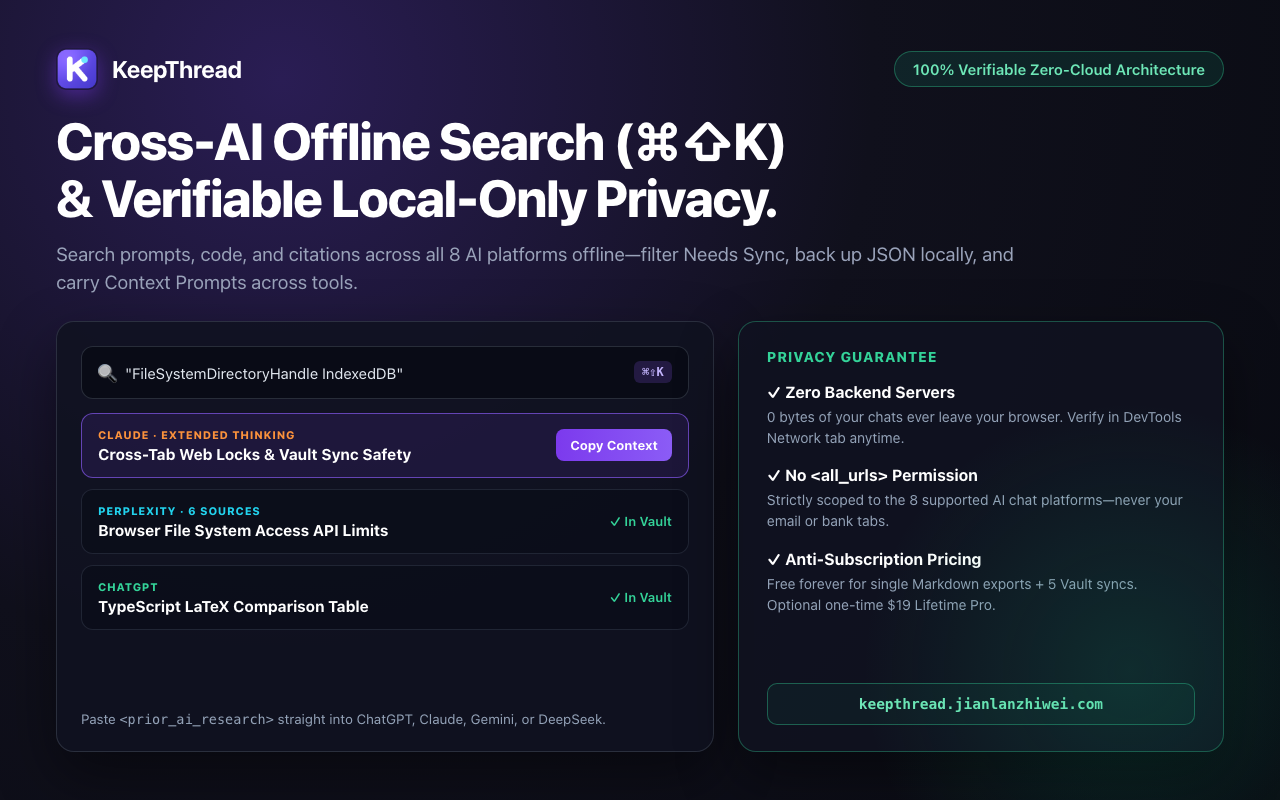
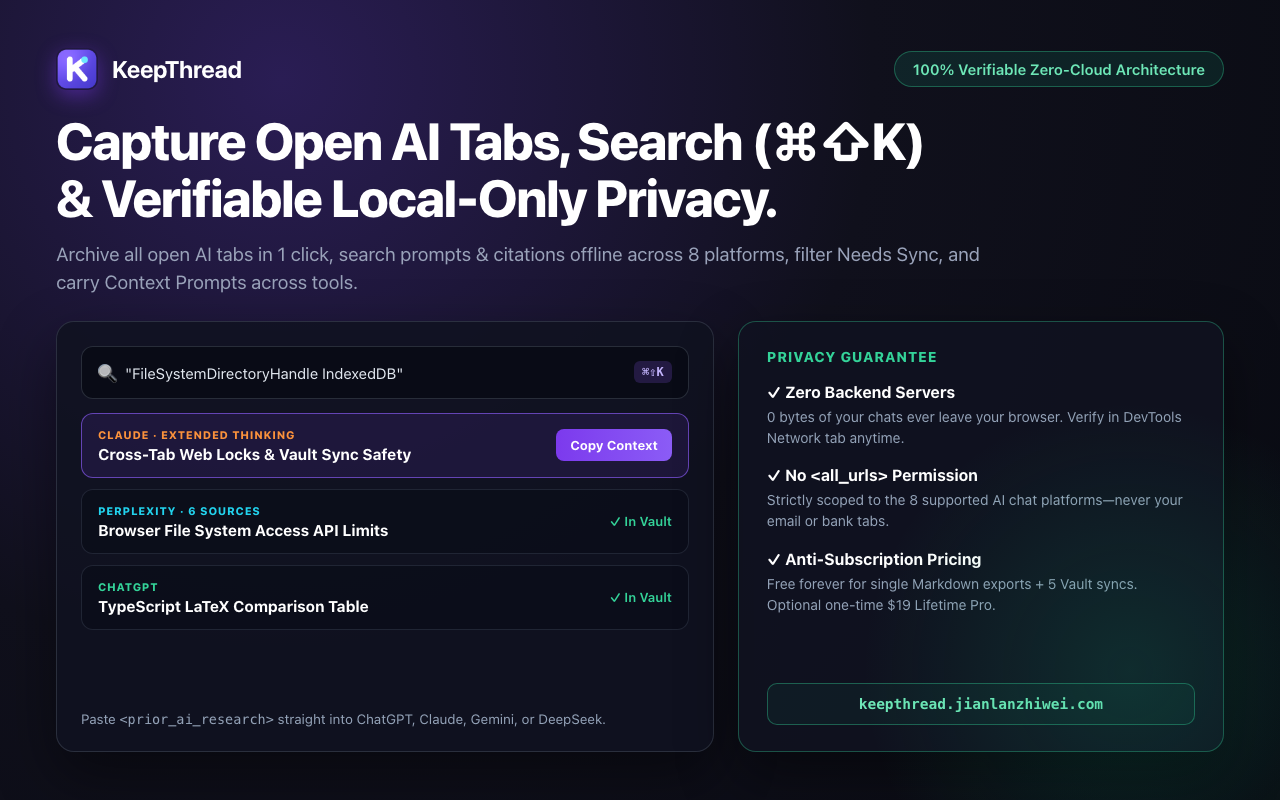
chore(site): sync KeepThread v1.4.4 release notes, guides, screenshots & llms.txt

Changed region(s): [[0.0625, 0.1562, 0.7188, 0.2188], [0.0312, 0.3125, 0.7812, 0.3438]]

diff --git a/index.html b/index.html
@@ -40,16 +40,16 @@
         "@type": "SoftwareApplication",
         "name": "KeepThread",
         "url": "https://keepthread.jianlanzhiwei.com/",
-        "softwareVersion": "1.4.3",
+        "softwareVersion": "1.4.4",
         "applicationCategory": "ProductivityApplication",
         "operatingSystem": "Chrome, Microsoft Edge, Firefox",
         "description": "100% local Chrome, Edge & Firefox extension to export and losslessly sync ChatGPT, Claude, Gemini & AI Studio, Perplexity, DeepSeek, Grok, Kimi & GLM chats straight into Obsidian & Markdown.",
         "featureList": [
-          "8-in-1 local sync for ChatGPT, Claude (including standalone /artifact/* pages & open Artifact side-panel source), Google Gemini (Deep Research & AI Studio), Perplexity, DeepSeek, Grok, Kimi, and GLM with zero cloud servers",
+          "8-in-1 local sync for ChatGPT, Claude (including standalone /artifact/* pages & open Artifact side-panel source), Google Gemini (Deep Research & AI Studio), Perplexity (including Reasoning callouts), DeepSeek, Grok, Kimi, and GLM with zero cloud servers",
           "Lossless in-place Obsidian Vault sync preserving handwritten notes, custom YAML frontmatter, tags, and [[backlinks]]—zero Local REST API plugin required",
-          "Inline title rename & synced tag editing, cherry-pick turns with 1-click Only single-turn mode, per-export Thinking On/Off toggle, and Needs Sync archive filtering",
-          "Anti-truncation Auto-Scroll full capture (up to 1,000 steps) with shifted-window and SPA-switch protection, pure Tailwind code-header cleanup, Mermaid & LaTeX fidelity, turn-scoped citations and attachment preservation",
-          "Free single-thread image-bundled .zip export (ideal for Firefox or unlinked workflows), multi-select batch sync to Obsidian Vault, full Obsidian ZIP export, portable local JSON backup/restore, and Obsidian Bases (.base) dashboard",
+          "Inline title rename, per-note default #tag deselection & synced tag editing, cherry-pick turns with 1-click Only single-turn mode, per-export Thinking On/Off toggle, and Needs Sync archive filtering",
+          "1-click Capture Open AI Tabs across all 8 platforms (zero extra permissions), anti-truncation Auto-Scroll full capture (up to 1,000 steps) with pre-export confirmation, pure Tailwind code-header cleanup, multi-line <br>/<div> code & standalone MathML/KaTeX fidelity, turn-scoped citations and attachment preservation",
+          "Free single-thread image-bundled .zip export (ideal for Firefox or unlinked workflows), multi-select batch sync with live progress & 1-click Retry Failed, full Obsidian ZIP export, portable local JSON backup/restore, and Obsidian Bases (.base) dashboard",
           "100% offline cross-AI search (Cmd+Shift+K / Ctrl+Shift+K) and 1-click Copy Context Prompt"
         ],
         "sameAs": [
@@ -168,7 +168,7 @@
         </nav>
       </header>
 
-      <span class="pill">100% Local · 8-in-1 AI Sync (v1.4.3) · Zero Cloud Server · No Subscription</span>
+      <span class="pill">100% Local · 8-in-1 AI Sync (v1.4.4) · Zero Cloud Server · No Subscription</span>
       <h1>Sync ChatGPT, Claude, Gemini, Perplexity, DeepSeek, Grok, Kimi &amp; GLM straight into Obsidian.</h1>
       <p class="sub">
         Stop losing research across AI tabs or fighting broken copy-paste. KeepThread writes clean
@@ -209,28 +209,28 @@
           </p>
         </div>
         <div class="card">
-          <h3>Cherry-Pick Only, Inline Rename &amp; Offline Image ZIP</h3>
+          <h3>Cherry-Pick Only, Per-Note #Tag Toggle &amp; Image ZIP</h3>
           <p>
-            Rename notes &amp; edit tags right before syncing, pick exact turns (or click
-            <strong>Only</strong> for one golden reply), toggle <strong>Thinking On/Off</strong> per
-            export, and bundle images locally into <code>assets/keepthread/</code> via Vault sync or
-            free single-thread <code>.zip</code>.
+            Rename notes &amp; click to exclude default <code>#tags</code> per note, pick exact turns
+            (or 1-click <strong>Only</strong>), toggle <strong>Thinking On/Off</strong>, and bundle
+            images locally into <code>assets/keepthread/</code> via Vault sync or free single-thread
+            <code>.zip</code>.
           </p>
         </div>
         <div class="card">
-          <h3>Obsidian Bases, Needs Sync Filter &amp; Cross-AI Memory</h3>
+          <h3>Capture Open Tabs, Bases &amp; Cross-AI Memory</h3>
           <p>
-            Auto-generates an Obsidian <code>AI-Chats.base</code> database view, filter unsynced or
-            updated threads via <strong>Needs Sync</strong>, search all 8 platforms offline via
+            Archive all open AI tabs in 1 click, auto-generate an Obsidian <code>AI-Chats.base</code>
+            database view, filter <strong>Needs Sync</strong>, search offline via
             <code>Cmd+Shift+K</code>, and click <strong>Copy Context Prompt</strong> to switch AIs.
           </p>
         </div>
         <div class="card">
           <h3>Obsidian-Grade Formatting</h3>
           <p>
-            Preserves KaTeX/MathJax LaTeX &amp; Mermaid source while protecting code blocks, keeps
-            Claude Artifact titles, turns Perplexity/Gemini/Grok/Kimi/DeepSeek sources into
-            turn-scoped footnotes, and wraps reasoning in collapsible callouts.
+            Preserves KaTeX/MathJax/MathML LaTeX &amp; multi-line code blocks while keeping fences
+            immune, extracts Claude Artifacts, turns Perplexity/Gemini/Grok/Kimi/DeepSeek sources
+            into turn-scoped footnotes, and folds reasoning into collapsible callouts.
           </p>
         </div>
         <div class="card">
@@ -304,7 +304,7 @@
             <ul>
               <li>Unlimited Obsidian Vault direct in-place syncs</li>
               <li>Unlimited local offline cross-platform search (<code>Cmd+Shift+K</code>)</li>
-              <li>One-click Bulk Sync to Vault &amp; Bulk ZIP export</li>
+              <li>One-click Bulk Sync (live progress &amp; Retry Failed) &amp; Bulk ZIP export</li>
               <li>Custom folder path, filename &amp; YAML frontmatter templates</li>
             </ul>
             <a class="btn btn-primary" style="margin-top:12px;" href="https://checkout.dodopayments.com/buy/pdt_0NsGLZDIIOYalSl7mmb95?quantity=1">

diff --git a/changelog.html b/changelog.html
@@ -160,8 +160,50 @@
       <article class="release latest">
         <div class="rel-head">
           <div class="rel-ver">
-            v1.4.3
+            v1.4.4
             <span class="tag tag-purple">Latest Release</span>
+          </div>
+          <span class="rel-date">2026-11-27</span>
+        </div>
+        <ul>
+          <li>
+            <strong>1-Click "Capture Open AI Tabs" (Zero Extra Permissions)</strong>: Scan and archive
+            every open ChatGPT, Claude, Gemini, AI Studio, Perplexity, DeepSeek, Grok, Kimi, and GLM
+            tab in a single click right from the Archive sidebar—using KeepThread's existing narrow
+            host permissions, fast-skipping sleeping Memory-Saver tabs, protecting richer saved
+            archives, and atomically respecting local archive quotas.
+          </li>
+          <li>
+            <strong>Bulk Sync Live Progress, Custom Title Parity &amp; 1-Click Retry Failed</strong>:
+            Added live <code>Syncing X/Y</code> progress feedback, custom-title propagation across
+            both Bulk Vault Sync and Bulk ZIP export, and instant <code>Retry Failed (N)</code> /
+            <code>Select Failed</code> recovery when partial or cherry-picked notes are held for review.
+          </li>
+          <li>
+            <strong>Per-Note Default Tag Deselection &amp; Pre-Export Truncation Guard</strong>:
+            Click any inherited default tag chip (such as <code>#ai-chat</code> or
+            <code>#chatgpt</code>) in Popup or Vault to exclude it for that specific note across all
+            exits, lossless re-syncs, Bulk ZIP, and JSON backups. Added pre-export confirmation on
+            long virtualized threads so off-screen turns aren't missed before running
+            <code>Full Capture</code>.
+          </li>
+          <li>
+            <strong>Perplexity Reasoning Callouts, DeepSeek Header Cleanup &amp; Code/MathML Fidelity</strong>:
+            Extracts Perplexity Reasoning / Pro Search blocks into collapsible
+            <code>&gt; [!note]- Thinking Process</code> callouts with strict citation isolation when
+            <code>Thinking: Off</code>; strips DeepSeek <code>Thought for Xs</code> /
+            <code>已深度思考</code> headers inside thinking callouts; and preserves
+            <code>&lt;br&gt;</code> / per-line <code>&lt;div&gt;</code> code newlines plus standalone
+            <code>&lt;math&gt;</code> MathML formulas.
+          </li>
+        </ul>
+      </article>
+
+      <article class="release">
+        <div class="rel-head">
+          <div class="rel-ver">
+            v1.4.3
+            <span class="tag">Live on Chrome Web Store</span>
           </div>
           <span class="rel-date">2026-11-26</span>
         </div>
@@ -237,7 +279,6 @@
         <div class="rel-head">
           <div class="rel-ver">
             v1.4.1
-            <span class="tag">Live on Chrome Web Store</span>
           </div>
           <span class="rel-date">2026-11-25</span>
         </div>

diff --git a/compare.html b/compare.html
@@ -269,11 +269,11 @@
             </tr>
             <tr>
               <td>
-                <span class="feat-name">Cross-AI Offline Search, Needs Sync &amp; Context Prompt</span>
-                <span class="feat-sub"><code>Cmd+Shift+K</code> search, <code>Needs Sync</code> filter + 1-click Copy Context to another AI</span>
+                <span class="feat-name">Cross-AI Offline Search, Capture Open Tabs &amp; Batch Sync</span>
+                <span class="feat-sub"><code>Cmd+Shift+K</code> search, 1-click <code>Capture Open AI Tabs</code>, <code>Needs Sync</code>, live Bulk Sync progress + <code>Retry Failed</code> &amp; Context Prompt</span>
               </td>
-              <td class="kt-col"><span class="yes">✓ IndexedDB + Needs Sync + Context</span></td>
-              <td><span class="no">✕ No AI thread index</span></td>
+              <td class="kt-col"><span class="yes">✓ IndexedDB + Open-Tab Capture + Retry</span></td>
+              <td><span class="no">✕ No AI thread index or batch tab scan</span></td>
               <td><span class="partial">△ Often requires cloud account</span></td>
             </tr>
             <tr>
@@ -305,10 +305,10 @@
             </tr>
             <tr>
               <td>
-                <span class="feat-name">Inline Rename &amp; Synced Tag Management</span>
-                <span class="feat-sub">Rename notes &amp; edit tags right before syncing without refresh wipe; preserves Obsidian-only manual tags</span>
+                <span class="feat-name">Inline Rename &amp; Per-Note Default Tag Toggle</span>
+                <span class="feat-sub">Rename notes &amp; click to exclude inherited default tags (e.g. <code>#ai-chat</code>) per note without refresh wipe; preserves Obsidian-only manual tags</span>
               </td>
-              <td class="kt-col"><span class="yes">✓ Inline Rename + Echoed Tag Chips</span></td>
+              <td class="kt-col"><span class="yes">✓ Inline Rename + Clickable Tag Chips</span></td>
               <td><span class="partial">△ Refresh can wipe typed note title</span></td>
               <td><span class="no">✕ Static auto-titles only</span></td>
             </tr>

diff --git a/export-perplexity-to-obsidian.html b/export-perplexity-to-obsidian.html
@@ -29,8 +29,9 @@
             "@type": "SoftwareApplication",
             "name": "KeepThread",
             "url": "https://keepthread.jianlanzhiwei.com/",
+            "softwareVersion": "1.4.4",
             "applicationCategory": "ProductivityApplication",
-            "operatingSystem": "Chrome, Microsoft Edge",
+            "operatingSystem": "Chrome, Microsoft Edge, Firefox",
             "offers": [
               { "@type": "Offer", "price": "0", "priceCurrency": "USD", "name": "Free Forever" },
               { "@type": "Offer", "price": "19", "priceCurrency": "USD", "name": "Lifetime Pro (One-Time)" }
@@ -138,8 +139,8 @@
           <p>Inline <code>.citation</code> pills become clickable Obsidian footnotes (<code>[^1]</code>, <code>[^2]</code>) backed by a deduplicated <code>## Sources</code> list with clean URLs and page titles.</p>
         </div>
         <div class="card">
-          <h3>Works on 2026 /search/ &amp; /session/ Threads</h3>
-          <p>Supports multi-turn Perplexity follow-ups and Pro / Deep Research threads, with Auto-Scroll Full Capture that remaps footnotes seamlessly across long sessions.</p>
+          <h3>Works on 2026 /search/, /session/ &amp; Reasoning</h3>
+          <p>Supports multi-turn Perplexity follow-ups, Reasoning / Pro Search collapsible <code>&gt; [!note]- Thinking Process</code> callouts (with strict citation isolation when <code>Thinking: Off</code>), and Auto-Scroll Full Capture that remaps footnotes seamlessly across long sessions.</p>
         </div>
         <div class="card">
           <h3>Protect Your Literature Notes on Re-Sync</h3>

diff --git a/export-deepseek-to-obsidian.html b/export-deepseek-to-obsidian.html
@@ -29,8 +29,9 @@
             "@type": "SoftwareApplication",
             "name": "KeepThread",
             "url": "https://keepthread.jianlanzhiwei.com/",
+            "softwareVersion": "1.4.4",
             "applicationCategory": "ProductivityApplication",
-            "operatingSystem": "Chrome, Microsoft Edge",
+            "operatingSystem": "Chrome, Microsoft Edge, Firefox",
             "offers": [
               { "@type": "Offer", "price": "0", "priceCurrency": "USD", "name": "Free Forever" },
               { "@type": "Offer", "price": "19", "priceCurrency": "USD", "name": "Lifetime Pro (One-Time)" }
@@ -143,7 +144,7 @@
       <div class="grid">
         <div class="card">
           <h3>Native Collapsible Reasoning Callouts</h3>
-          <p>DeepSeek-R1 chain-of-thought blocks are extracted separately and formatted as <code>&gt; [!note]- Thinking Process</code> so they stay collapsed by default in Obsidian Reading View—searchable, never noisy.</p>
+          <p>DeepSeek-R1 chain-of-thought blocks are extracted separately, stripped of UI header clutter (<code>Thought for Xs</code> / <code>已深度思考</code>), and formatted as <code>&gt; [!note]- Thinking Process</code> so they stay collapsed by default in Obsidian Reading View.</p>
         </div>
         <div class="card">
           <h3>Zero-Duplication LaTeX Math</h3>

diff --git a/guide.html b/guide.html
@@ -313,11 +313,11 @@
         </div>
         <div class="card">
           <div class="step-num">4</div>
-          <h3>Search Offline Anytime</h3>
+          <h3>Search &amp; Batch-Capture Offline</h3>
           <p>
-            Press <kbd>⌘⇧K</kbd> / <kbd>Ctrl+Shift+K</kbd> anywhere in your browser to search
-            prompts, code blocks, and citations across all 8 AI platforms locally in IndexedDB—and
-            filter unsynced threads with <strong>Needs Sync</strong>.
+            Press <kbd>⌘⇧K</kbd> / <kbd>Ctrl+Shift+K</kbd> to search prompts, code, and citations
+            across all 8 AI platforms locally, click <strong>Capture Open AI Tabs</strong> to archive
+            all active AI tabs at once, and filter unsynced threads with <strong>Needs Sync</strong>.
           </p>
         </div>
       </div>

diff --git a/export-chatgpt-to-obsidian.html b/export-chatgpt-to-obsidian.html
@@ -37,8 +37,9 @@
             "@type": "SoftwareApplication",
             "name": "KeepThread",
             "url": "https://keepthread.jianlanzhiwei.com/",
+            "softwareVersion": "1.4.4",
             "applicationCategory": "ProductivityApplication",
-            "operatingSystem": "Chrome, Microsoft Edge",
+            "operatingSystem": "Chrome, Microsoft Edge, Firefox",
             "offers": [
               { "@type": "Offer", "price": "0", "priceCurrency": "USD", "name": "Free Forever" },
               { "@type": "Offer", "price": "19", "priceCurrency": "USD", "name": "Lifetime Pro (One-Time)" }

diff --git a/export-gemini-to-obsidian.html b/export-gemini-to-obsidian.html
@@ -29,8 +29,9 @@
             "@type": "SoftwareApplication",
             "name": "KeepThread",
             "url": "https://keepthread.jianlanzhiwei.com/",
+            "softwareVersion": "1.4.4",
             "applicationCategory": "ProductivityApplication",
-            "operatingSystem": "Chrome, Microsoft Edge",
+            "operatingSystem": "Chrome, Microsoft Edge, Firefox",
             "offers": [
               { "@type": "Offer", "price": "0", "priceCurrency": "USD", "name": "Free Forever" },
               { "@type": "Offer", "price": "19", "priceCurrency": "USD", "name": "Lifetime Pro (One-Time)" }

diff --git a/export-grok-to-obsidian.html b/export-grok-to-obsidian.html
@@ -29,8 +29,9 @@
             "@type": "SoftwareApplication",
             "name": "KeepThread",
             "url": "https://keepthread.jianlanzhiwei.com/",
+            "softwareVersion": "1.4.4",
             "applicationCategory": "ProductivityApplication",
-            "operatingSystem": "Chrome, Microsoft Edge",
+            "operatingSystem": "Chrome, Microsoft Edge, Firefox",
             "offers": [
               { "@type": "Offer", "price": "0", "priceCurrency": "USD", "name": "Free Forever" },
               { "@type": "Offer", "price": "19", "priceCurrency": "USD", "name": "Lifetime Pro (One-Time)" }

diff --git a/export-claude-to-obsidian.html b/export-claude-to-obsidian.html
@@ -29,7 +29,7 @@
             "@type": "SoftwareApplication",
             "name": "KeepThread",
             "url": "https://keepthread.jianlanzhiwei.com/",
-            "softwareVersion": "1.4.3",
+            "softwareVersion": "1.4.4",
             "applicationCategory": "ProductivityApplication",
             "operatingSystem": "Chrome, Microsoft Edge, Firefox",
             "offers": [
